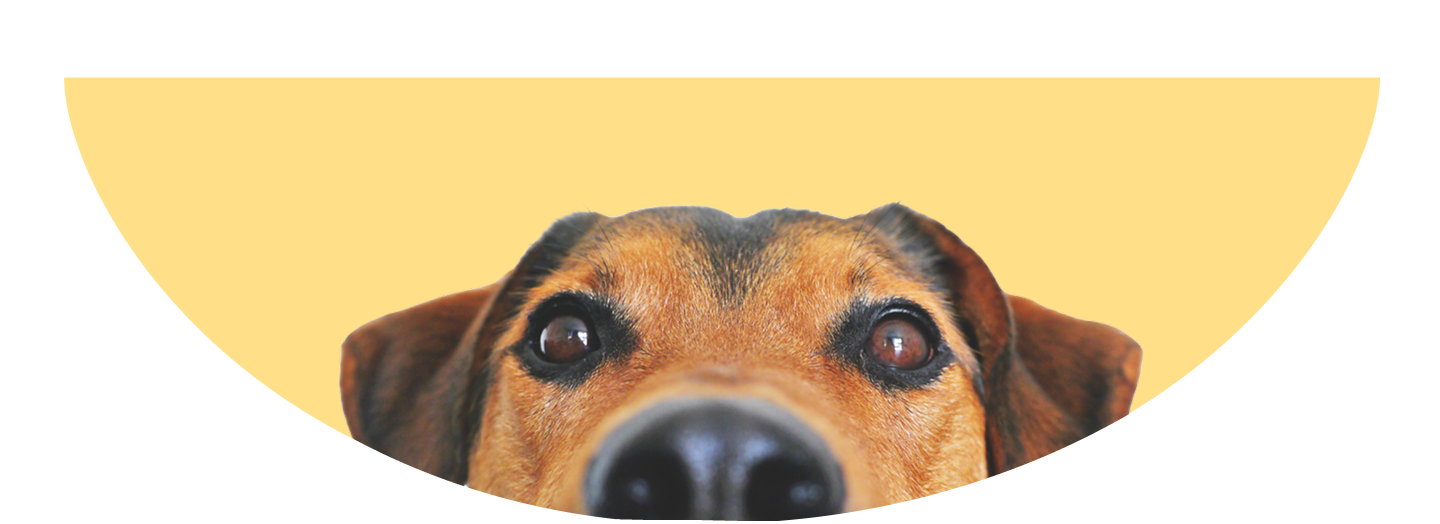
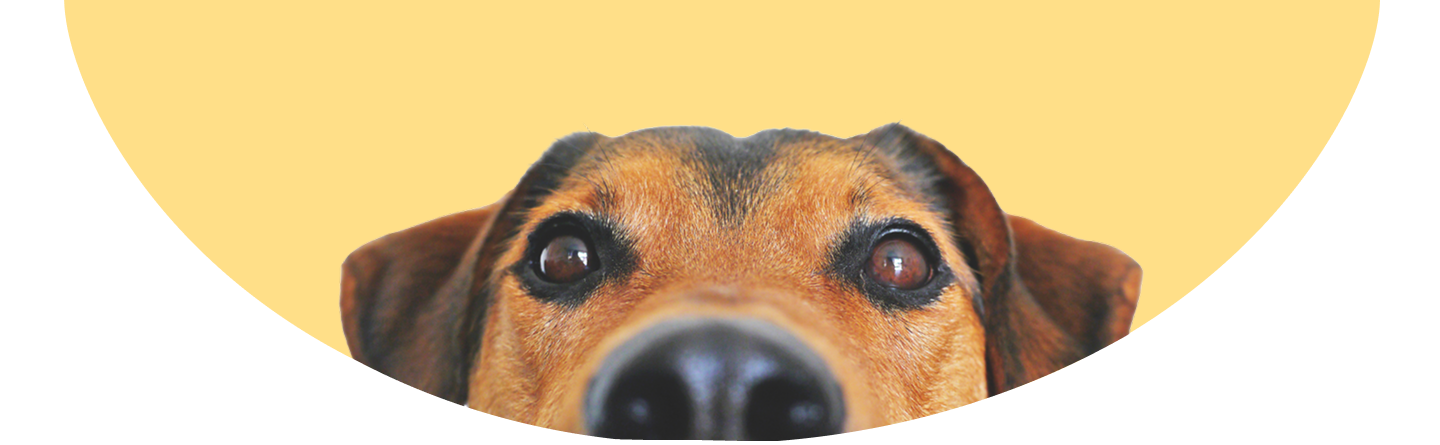
.

diff --git a/html/nutrian.html b/html/nutrian.html
@@ -163,7 +163,7 @@
     </header>
 
     <div class="lg d-none d-md-block">
-        <div class="head">
+        <div class="head-pic">
             <h1 class="topic text-center">Nutrition</h1>
             <img id="head-cover" src="../img/nutrian.png" alt="dog" title="dog looking at you">
             <canvas></canvas>
@@ -265,7 +265,7 @@
     </div>
 
     <div class="sm d-block d-md-none container-fluid">
-        <div class="head">
+        <div class="head-pic">
             <h1>Nutrition</h1>
             <img id="sm-head-cover" src="../img/nutrian.png" alt="dog" title="dog looking at you">
         </div>

diff --git a/css/nutrition.css b/css/nutrition.css
@@ -10,8 +10,7 @@ header {
 body {
     background-color: white;
 }
-
-.head h1 {
+.head-pic h1 {
     padding-top: 0.5em;
     left: 45%;
     position: absolute;
@@ -20,7 +19,8 @@ body {
 
 #head-cover,#sm-head-cover {
     position: relative;
-    margin-top: -7.8em;
+    /* margin-top: -6em; */
+    height: 50%;
     left: 50%;
     transform: translateX(-50%);
     max-width: 100%;
